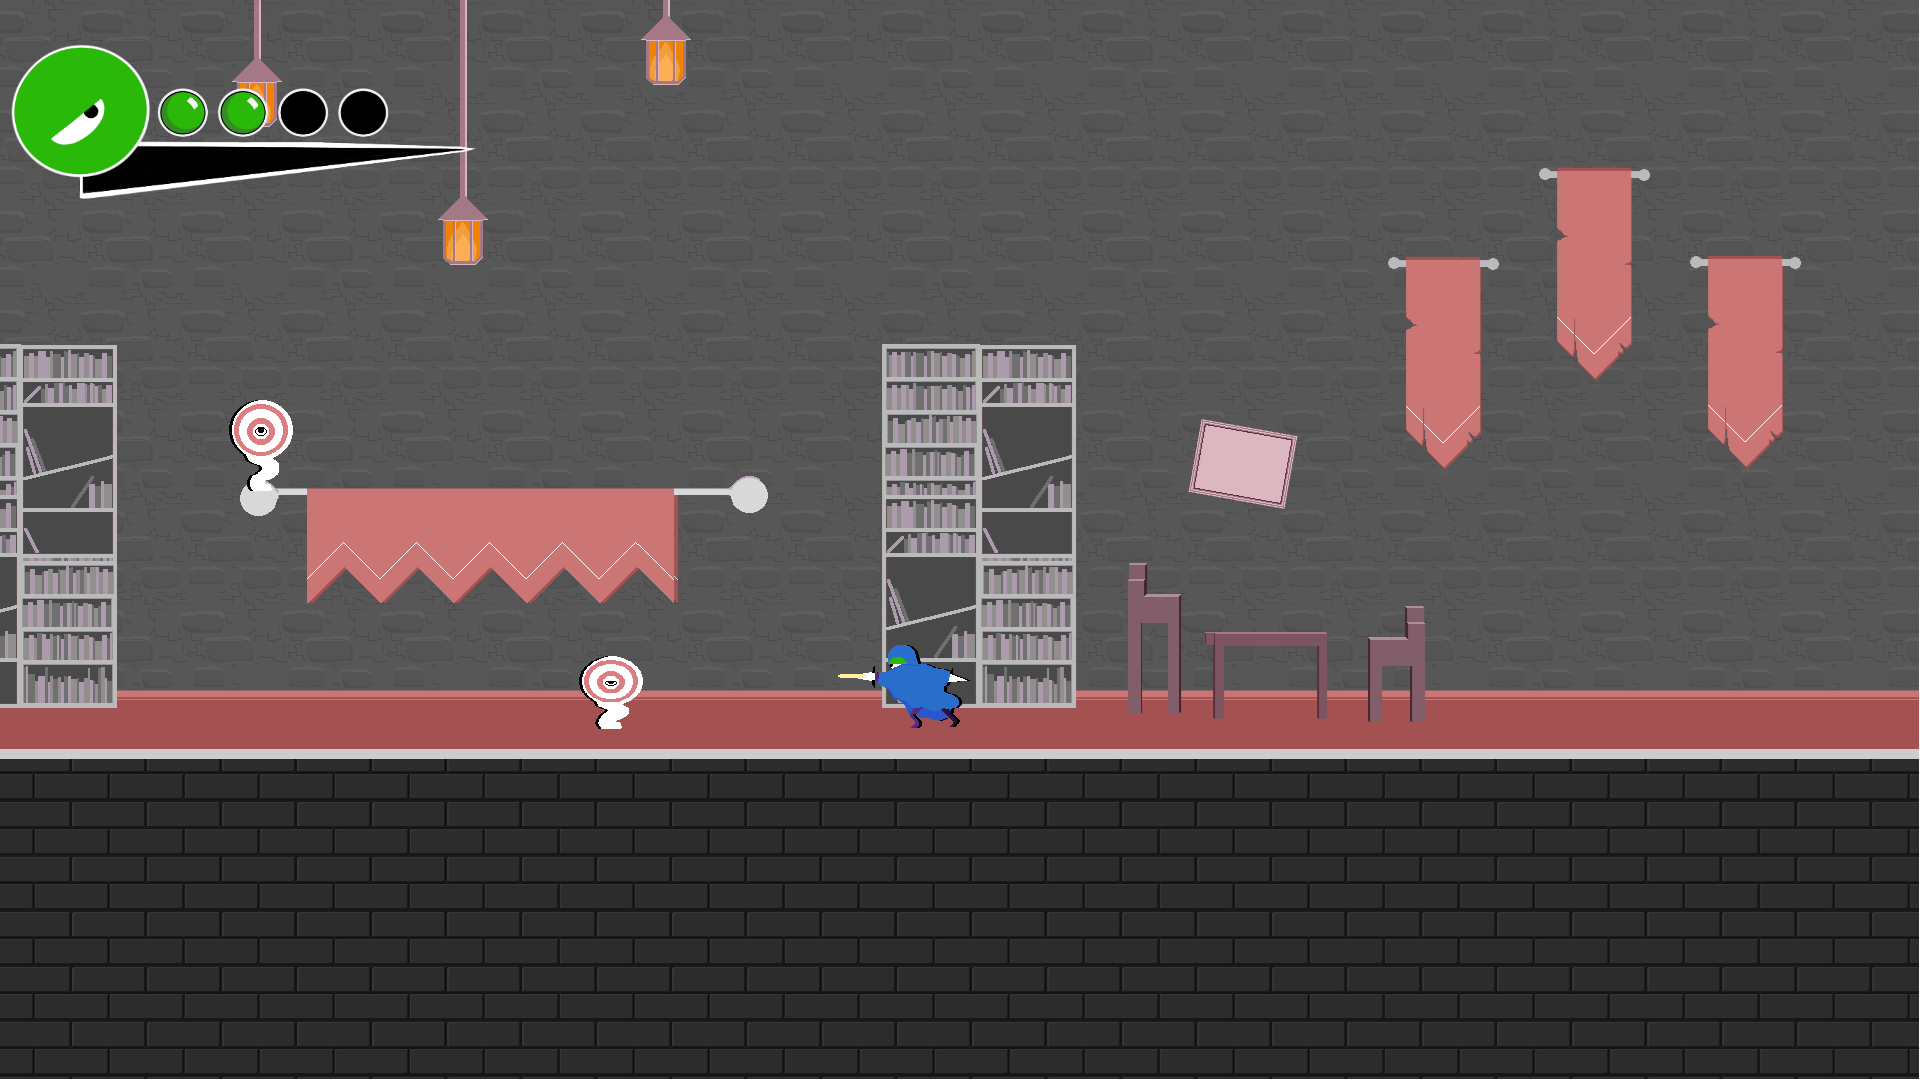
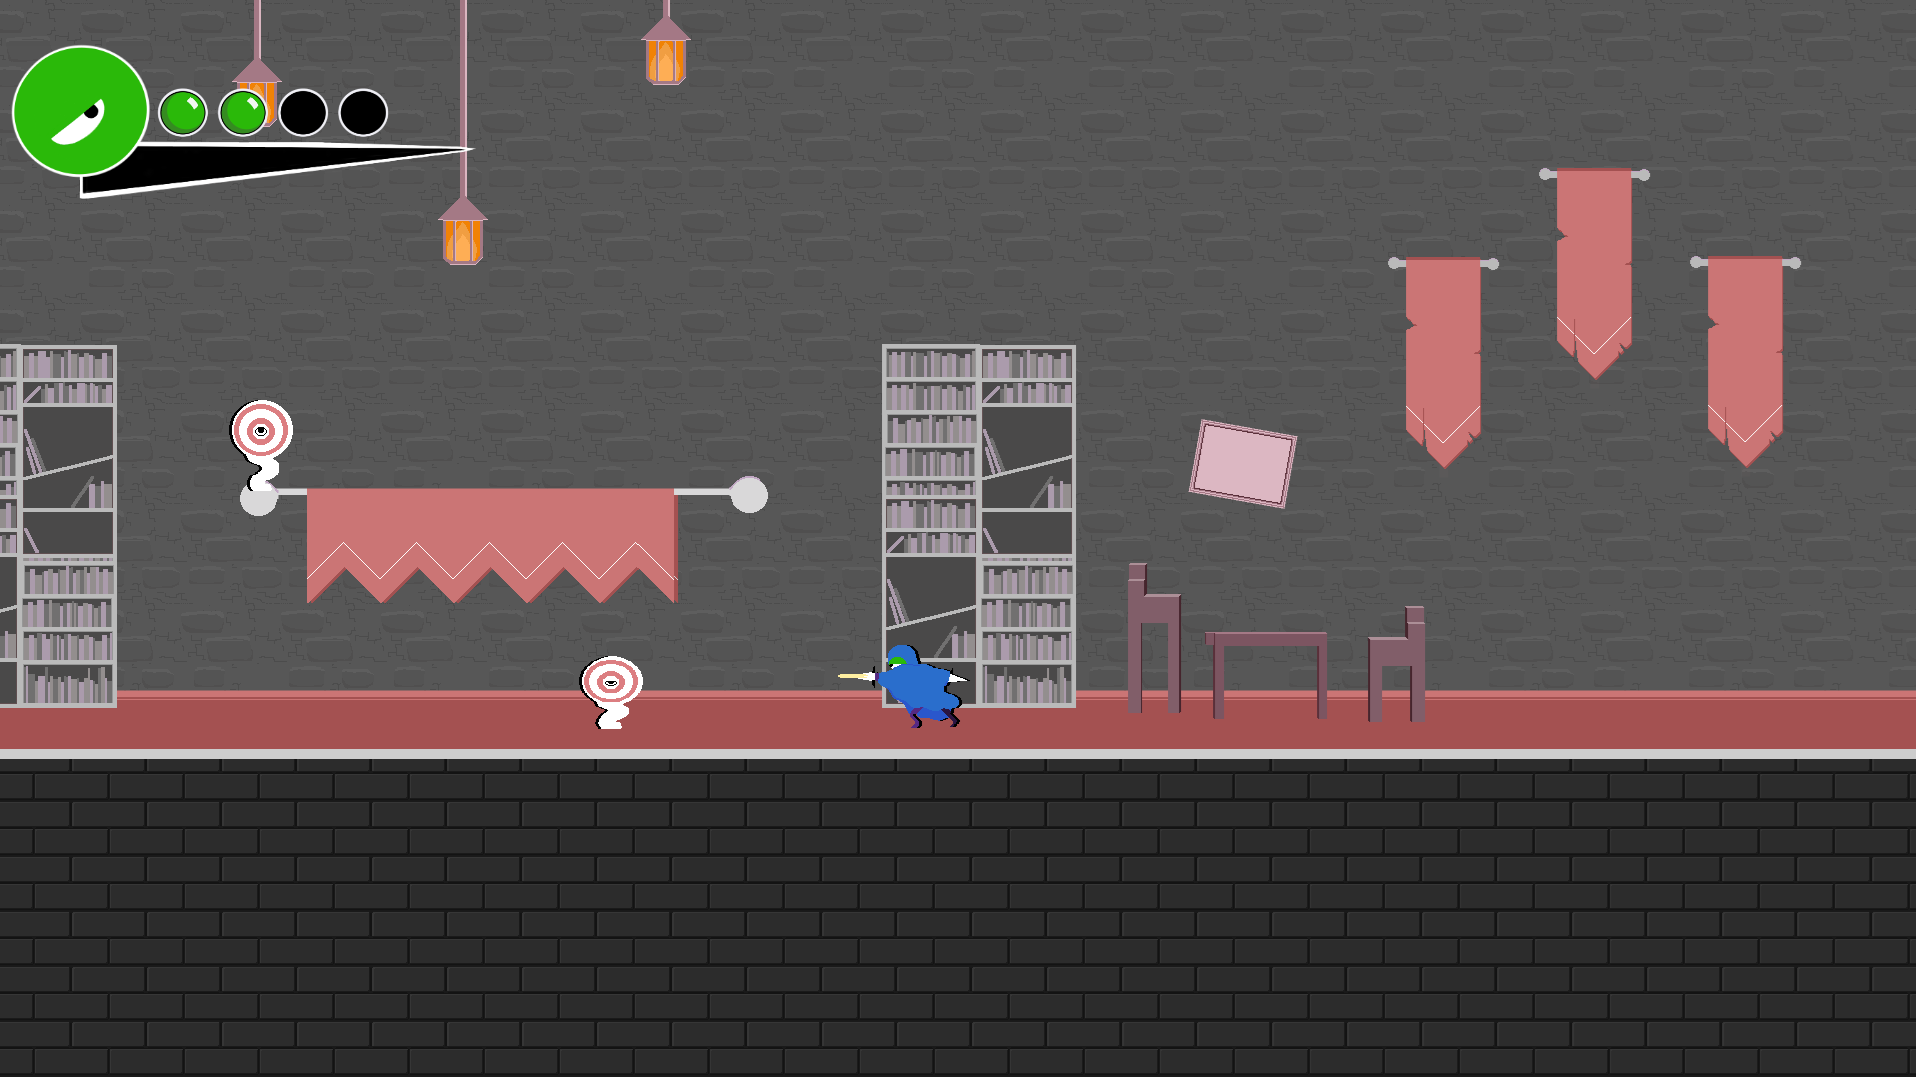
moar fix

diff --git a/pages/home.html b/pages/home.html
@@ -21,7 +21,7 @@
 <img src="/images/steampagegif_ders.gif" loading="lazy" alt="Revertices" width="25%">
 <img src="/images/steampagegif_trale.gif" loading="lazy" alt="Revertices" width="25%">
 
-<img src="/images/revertices-library-capsule.png" loading="lazy" alt="Revertices" width="25%">
+<img src="/images/revertices-main-capsule.png" loading="lazy" alt="Revertices" width="25%">
 <img src="/images/reverticesscreenshot7.png" loading="lazy" alt="Revertices" width="25%">
 <img src="/images/reverticesscreenshot6.png" loading="lazy" alt="Revertices" width="25%">
 <img src="/images/reverticesscreenshot5.png" loading="lazy" alt="Revertices" width="25%">

diff --git a/styles/base.css b/styles/base.css
@@ -96,7 +96,7 @@ h2 a {
 }
 
 .letterhead svg {
-	width: 2rem;
+	width: 100%;
 	height: auto;
 	vertical-align: middle;
 }